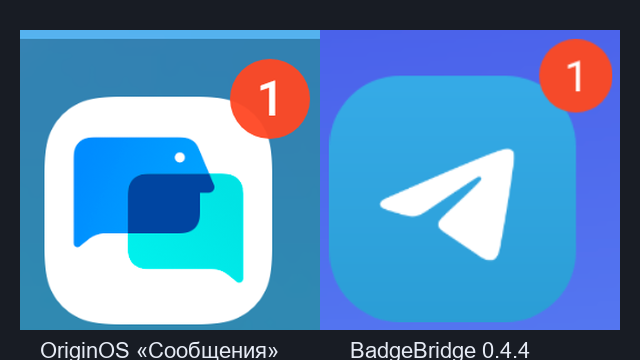
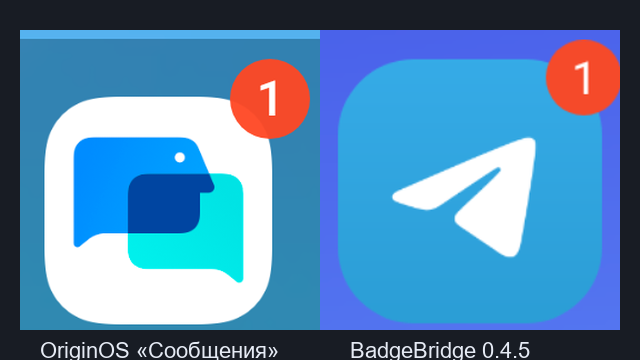
0.4.5: иконка центрирована в ячейке виджета (MARGIN=13), бейдж выступает на 13 px

diff --git a/src/local/badgebridge/Store.java b/src/local/badgebridge/Store.java
@@ -30,19 +30,21 @@ import java.util.Set;
  */
 public final class Store {
 
-    /* Композиция «иконка + бейдж» целиком вписывается в ячейку виджета,
-       поэтому SIZE = ICON + BADGE_R: выступ бейджа равен его радиусу.
-       Замер системных значков OriginOS: иконка 206 px, бейдж Ø72 px,
-       выступ 36 px -> иконка занимает 85% композиции.
-       Здесь иконка = 174/200 = 87% ячейки (как было до 0.4.3),
-       бейдж Ø52 сидит на углу иконки и наполовину выступает наружу. */
+    /* Композиция «иконка + бейдж» целиком вписывается в ячейку виджета.
+       Иконка центрирована в холсте (одинаковый отступ со всех сторон),
+       поэтому она стоит ровно по центру ячейки и совпадает с подписью,
+       а бейдж выступает за её угол ровно на MARGIN.
+       Системный значок OriginOS: иконка 206 px, бейдж Ø72 px на углу.
+       Здесь: иконка 174/200 = 87% ячейки (222 px), бейдж Ø50 (63 px). */
     private static final int SIZE = 200;
-    private static final int ICON = 174;          // иконка: x 0..174, y 26..200
-    private static final int ICON_TOP = 26;
+    private static final int MARGIN = 13;         // отступ иконки от края холста
+    private static final int ICON = 174;          // иконка: x 13..187, y 13..187
+    private static final int ICON_LEFT = MARGIN;
+    private static final int ICON_TOP = MARGIN;
     private static final int RADIUS = 50;
-    private static final float BADGE_R = 26.0f;   // Ø52 в холсте -> ~65 px на экране
-    private static final float BADGE_X = ICON;    // 174 — правый край иконки
-    private static final float BADGE_Y = ICON_TOP; // 26 — верхний край иконки
+    private static final float BADGE_R = 25.0f;   // Ø50 -> ~63 px на экране
+    private static final float BADGE_X = SIZE - BADGE_R; // 175
+    private static final float BADGE_Y = BADGE_R;        // 25
     private static final int BADGE_COLOR = Color.rgb(245, 74, 42);
     private static final int FALLBACK_BG = Color.rgb(45, 65, 85);
     private static final int WHITE = 0xFFFFFFFF;
@@ -120,19 +122,21 @@ public final class Store {
             Drawable icon = context.getPackageManager().getApplicationIcon(pkg);
             canvas.save();
             Path clip = new Path();
-            clip.addRoundRect(0, ICON_TOP, ICON, SIZE, RADIUS, RADIUS, Path.Direction.CW);
+            clip.addRoundRect(ICON_LEFT, ICON_TOP, ICON_LEFT + ICON, ICON_TOP + ICON,
+                    RADIUS, RADIUS, Path.Direction.CW);
             canvas.clipPath(clip);
-            icon.setBounds(0, ICON_TOP, ICON, SIZE);
+            icon.setBounds(ICON_LEFT, ICON_TOP, ICON_LEFT + ICON, ICON_TOP + ICON);
             icon.draw(canvas);
             canvas.restore();
         } catch (Exception e) {
             Paint paint = new Paint(Paint.ANTI_ALIAS_FLAG);
             paint.setColor(FALLBACK_BG);
-            canvas.drawRoundRect(0, ICON_TOP, ICON, SIZE, RADIUS, RADIUS, paint);
+            canvas.drawRoundRect(ICON_LEFT, ICON_TOP, ICON_LEFT + ICON, ICON_TOP + ICON,
+                    RADIUS, RADIUS, paint);
             paint.setColor(WHITE);
             paint.setTextSize(72.0f);
             paint.setTextAlign(Paint.Align.CENTER);
-            canvas.drawText("+", ICON / 2.0f, ICON_TOP + ICON / 2.0f + 25.0f, paint);
+            canvas.drawText("+", ICON_LEFT + ICON / 2.0f, ICON_TOP + ICON / 2.0f + 25.0f, paint);
         }
 
         if (count > 0 || flag) {

diff --git a/README.md b/README.md
@@ -26,17 +26,19 @@
 
 | Параметр | OriginOS | BadgeBridge |
 |---|---|---|
-| Диаметр круга | 72 px | Ø52 в холсте → 65 px на экране (29% иконки) |
-| Центр круга | точно на верхнем-правом углу иконки, половина вне иконки | то же (`BADGE_X = ICON`, `BADGE_Y = ICON_TOP`) |
-| Размер иконки | 206 px в слоте дока | 222 px — иконка заполняет всю ячейку виджета |
+| Диаметр круга | 72 px | Ø50 в холсте → 63 px на экране (28% иконки) |
+| Положение круга | на верхнем-правом углу иконки, выступает наружу | тот же угол: `BADGE_X = SIZE - BADGE_R`, `BADGE_Y = BADGE_R` |
+| Размер иконки | 206 px в слоте дока | 222 px (87% ячейки), **центрирована** в виджете |
 | Цвет | `#F54A2A` | `rgb(245, 74, 42)` |
 | Обводка / тень | нет | нет |
-| Высота цифры | ~43% диаметра | 30 px шрифта на Ø52 |
+| Высота цифры | ~43% диаметра | 30 px шрифта на Ø50 |
 | Скругление угла иконки | ~29% стороны | 50 px на 174 px |
 
-Ячейка виджета фиксирована, поэтому композиция «иконка + бейдж» строится так,
-чтобы её bounding box ровно равен холсту: `SIZE = ICON + BADGE_R`. Так иконка
-остаётся максимально возможной, а круг только выступает за её угол.
+Ячейка виджета фиксирована, поэтому композиция «иконка + бейдж» должна ровно
+вписываться в неё: `SIZE = ICON + MARGIN`, где `MARGIN` — насколько круг
+выступает за угол иконки. Иконка лежит в холсте с одинаковым отступом со всех
+сторон (`MARGIN = 13`), поэтому её центр совпадает с центром ячейки и с
+подписью под ней — значок не «съезжает» влево.
 
 Числа больше 99 показываются как `99+`.
 
@@ -88,7 +90,7 @@ $env:ANDROID_HOME = "C:\path\to\android-sdk"
 .\build.ps1
 ```
 
-Получите `dist\BadgeBridge-0.4.4.apk`. Если `badge.keystore` нет, `build.ps1`
+Получите `dist\BadgeBridge-0.4.5.apk`. Если `badge.keystore` нет, `build.ps1`
 создаст его автоматически (`keytool`).
 
 Что происходит при сборке:

diff --git a/CHANGELOG.md b/CHANGELOG.md
@@ -1,5 +1,13 @@
 # CHANGELOG
 
+## 0.4.5
+- Иконка в виджете теперь **центрирована** в ячейке: её центр совпадает с
+  центром подписи (раньше она съезжала влево на 16 px, потому что весь
+  bounding box «иконка + бейдж» прижимался к левому краю).
+- Геометрия: иконка 174/200 с отступом `MARGIN = 13` со всех сторон, бейдж Ø50
+  размещён в углу иконки и выступает наружу ровно на 13 px.
+- Размер иконки на экране остался прежним — 222 px.
+
 ## 0.4.4
 - Иконка снова занимает всю ячейку виджета (222 px на экране, как в 0.4.2):
   холст теперь равен `ICON + BADGE_R`, поэтому бейдж не «съедает» часть иконки.
